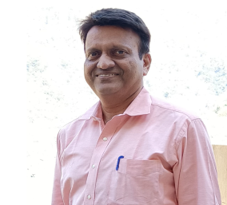
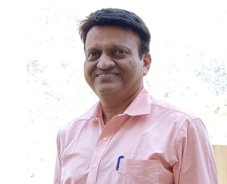
leadership photo change

diff --git a/src/components/layout/Navbar.jsx b/src/components/layout/Navbar.jsx
@@ -1,4 +1,4 @@
-import { useState } from "react";
+import { useState, useEffect } from "react";
 import { ArrowRight, Menu, X } from "lucide-react";
 import { NavLink, Link } from "react-router-dom";
 
@@ -6,6 +6,16 @@ const navLinks = ["HOME", "ABOUT", "SERVICES", "LEADERSHIP", "BLOG", "CONTACT"];
 
 export default function Navbar() {
   const [menuOpen, setMenuOpen] = useState(false);
+
+  // Lock body scroll when menu is open + prevent horizontal scroll bleed
+  useEffect(() => {
+    if (menuOpen) {
+      document.body.style.overflow = "hidden";
+    } else {
+      document.body.style.overflow = "";
+    }
+    return () => { document.body.style.overflow = ""; };
+  }, [menuOpen]);
 
   return (
     <>
@@ -36,7 +46,6 @@ export default function Navbar() {
 
         {/* Right side */}
         <div className="flex items-center gap-3">
-          {/* CTA — hidden on mobile */}
           <Link
             to="/quote"
             className="hidden sm:flex bg-[#1E3A7B] px-5 py-2.5 text-xs font-semibold text-white items-center gap-2 hover:opacity-90 transition-all"
@@ -45,7 +54,6 @@ export default function Navbar() {
             <ArrowRight size={14} />
           </Link>
 
-          {/* Hamburger — mobile only */}
           <button
             onClick={() => setMenuOpen(!menuOpen)}
             className="lg:hidden w-10 h-10 flex items-center justify-center text-[#1E3A7B]"
@@ -56,44 +64,77 @@ export default function Navbar() {
         </div>
       </nav>
 
-      {/* Mobile Drawer */}
+      {/* Mobile Drawer — rendered in a portal-like fixed layer, clipped to viewport */}
+      {/* Using visibility instead of pointer-events to avoid layout side effects */}
       <div
-        className={`lg:hidden fixed inset-0 z-40 transition-all duration-300 ${
-          menuOpen ? "pointer-events-auto" : "pointer-events-none"
-        }`}
+        className="lg:hidden"
+        style={{
+          position: "fixed",
+          inset: 0,
+          zIndex: 40,
+          visibility: menuOpen ? "visible" : "hidden",
+          // Critical: clip everything to viewport so nothing bleeds right
+          overflow: "hidden",
+          width: "100vw",
+          height: "100vh",
+        }}
       >
         {/* Backdrop */}
         <div
           onClick={() => setMenuOpen(false)}
-          className={`absolute inset-0 bg-black/40 transition-opacity duration-300 ${
-            menuOpen ? "opacity-100" : "opacity-0"
-          }`}
+          style={{
+            position: "absolute",
+            inset: 0,
+            background: "rgba(0,0,0,0.4)",
+            opacity: menuOpen ? 1 : 0,
+            transition: "opacity 0.3s ease",
+          }}
         />
 
-        {/* Panel */}
+        {/* Panel — slides in from right, strictly capped at 100vw */}
         <div
-          className={`absolute top-0 right-0 h-full w-72 bg-white shadow-2xl flex flex-col transition-transform duration-300 ease-out ${
-            menuOpen ? "translate-x-0" : "translate-x-full"
-          }`}
+          style={{
+            position: "absolute",
+            top: 0,
+            right: 0,
+            height: "100%",
+            width: "min(288px, 100vw)",   // never wider than screen
+            background: "white",
+            boxShadow: "-4px 0 24px rgba(0,0,0,0.12)",
+            display: "flex",
+            flexDirection: "column",
+            transform: menuOpen ? "translateX(0)" : "translateX(100%)",
+            transition: "transform 0.3s cubic-bezier(0.16,1,0.3,1)",
+            willChange: "transform",      // GPU layer — no layout reflow
+          }}
         >
           {/* Panel header */}
-          <div className="h-[70px] flex items-center justify-between px-6 border-b border-gray-100">
+          <div className="h-[70px] flex items-center justify-between px-6 border-b border-gray-100 flex-shrink-0">
             <p className="text-xs tracking-[3px] text-[#C8960A] font-semibold uppercase">Menu</p>
-            <button onClick={() => setMenuOpen(false)} className="text-[#1E3A7B]">
+            <button
+              onClick={() => setMenuOpen(false)}
+              className="text-[#1E3A7B] w-8 h-8 flex items-center justify-center"
+              aria-label="Close menu"
+            >
               <X size={20} />
             </button>
           </div>
 
           {/* Links */}
-          <div className="flex flex-col py-4">
-            {navLinks.map((label) => (
+          <div className="flex flex-col py-4 overflow-y-auto flex-1">
+            {navLinks.map((label, i) => (
               <NavLink
                 key={label}
                 to={`/${label === "HOME" ? "" : label.toLowerCase()}`}
                 onClick={() => setMenuOpen(false)}
+                style={{
+                  opacity: menuOpen ? 1 : 0,
+                  transform: menuOpen ? "translateX(0)" : "translateX(20px)",
+                  transition: `opacity 0.3s ease ${0.05 + i * 0.05}s, transform 0.3s ease ${0.05 + i * 0.05}s`,
+                }}
                 className={({ isActive }) =>
                   `px-6 py-4 text-sm font-semibold tracking-wide border-b border-gray-50 transition-colors duration-200 ${
-                    isActive ? "text-[#C8960A] bg-amber-50" : "text-[#1E3A7B] hover:text-[#C8960A] hover:bg-gray-50"
+                    isActive ? "text-[#C8960A] bg-amber-50" : "text-[#1E3A7B] active:bg-gray-50"
                   }`
                 }
               >
@@ -103,11 +144,11 @@ export default function Navbar() {
           </div>
 
           {/* Mobile CTA */}
-          <div className="px-6 pt-4 mt-auto pb-10">
+          <div className="px-6 pt-4 pb-10 flex-shrink-0">
             <Link
               to="/quote"
               onClick={() => setMenuOpen(false)}
-              className="w-full bg-[#1E3A7B] px-5 py-3.5 text-xs font-semibold text-white flex items-center justify-center gap-2 hover:opacity-90 transition-all"
+              className="w-full bg-[#1E3A7B] px-5 py-3.5 text-xs font-semibold text-white flex items-center justify-center gap-2 active:opacity-80 transition-all"
             >
               GET A QUOTE
               <ArrowRight size={14} />

diff --git a/src/components/home/SmartTechnology.jsx b/src/components/home/SmartTechnology.jsx
@@ -72,19 +72,20 @@ export default function YourComponentName() {
   return (
     <section className="bg-[#F8F9FB] py-10 lg:py-16 overflow-hidden">
       <div className="max-w-7xl mx-auto px-4 sm:px-6 lg:px-10">
-        <div className="grid lg:grid-cols-2 gap-10 lg:gap-20 items-center">
+        <div className="flex flex-col lg:grid lg:grid-cols-2 gap-8 lg:gap-20 items-center">
 
           {/* LEFT — UI Mockup */}
           <div
             ref={leftRef}
-            className="relative"
+            className="relative w-full min-w-0"
             style={{
               opacity: leftInView ? 1 : 0,
               transform: leftInView ? "translateY(0px)" : "translateY(48px)",
               transition: "opacity 0.7s ease, transform 0.7s ease",
             }}
           >
-            <div className="bg-[#1E3A7B] rounded-2xl p-4 sm:p-6 shadow-xl">
+            {/* Tracker card */}
+            <div className="bg-[#1E3A7B] rounded-2xl p-4 sm:p-6 shadow-xl w-full">
               <p className="text-white font-bold text-sm sm:text-base mb-1">Live Shipment Tracker</p>
               <p className="text-white/50 text-xs mb-5">Shanghai → Los Angeles · Ocean Freight</p>
 
@@ -107,7 +108,8 @@ export default function YourComponentName() {
                 <p className="text-white/60 text-xs">ETA: June 3</p>
               </div>
 
-              <div className="flex items-center gap-0.5 overflow-x-auto pb-1 scrollbar-none">
+              {/* Steps — scrollable on very small screens */}
+              <div className="flex items-center gap-0.5 overflow-x-auto pb-1" style={{ scrollbarWidth: "none" }}>
                 {steps.map((step, i) => (
                   <div key={step} className="flex items-center gap-0.5 flex-shrink-0">
                     <div className={`w-2 h-2 rounded-full flex-shrink-0 ${i <= 2 ? "bg-[#C8960A]" : "bg-white/20"}`} />
@@ -118,16 +120,17 @@ export default function YourComponentName() {
               </div>
             </div>
 
-            <div className="bg-white rounded-2xl shadow-xl p-4 sm:p-5 mt-4 sm:mt-[-20px] sm:ml-8 sm:mr-[-16px] relative z-10">
+            {/* Dashboard card — stacked on mobile, overlapping on sm+ */}
+            <div className="bg-white rounded-2xl shadow-xl p-4 sm:p-5 mt-3 sm:mt-[-20px] sm:ml-8 sm:mr-[-16px] relative z-10 w-full min-w-0">
               <p className="text-[#081229] font-bold text-sm mb-4">Your Dashboard</p>
               <div className="grid grid-cols-2 gap-3">
                 {dashboardStats.map(({ icon: Icon, value, label }) => (
-                  <div key={label} className="bg-[#F8F9FB] rounded-xl p-3 sm:p-3.5 flex flex-col gap-2">
-                    <div className="w-7 h-7 bg-[#E8EEF8] rounded-lg flex items-center justify-center">
+                  <div key={label} className="bg-[#F8F9FB] rounded-xl p-3 flex flex-col gap-2 min-w-0">
+                    <div className="w-7 h-7 bg-[#E8EEF8] rounded-lg flex items-center justify-center flex-shrink-0">
                       <Icon size={14} className="text-[#1E3A7B]" />
                     </div>
-                    <p className="text-[#081229] text-lg sm:text-xl font-extrabold leading-none">{value}</p>
-                    <p className="text-gray-400 text-xs">{label}</p>
+                    <p className="text-[#081229] text-lg font-extrabold leading-none truncate">{value}</p>
+                    <p className="text-gray-400 text-xs leading-tight">{label}</p>
                   </div>
                 ))}
               </div>
@@ -137,6 +140,7 @@ export default function YourComponentName() {
           {/* RIGHT — Text Content */}
           <div
             ref={rightRef}
+            className="w-full min-w-0"
             style={{
               opacity: rightInView ? 1 : 0,
               transform: rightInView ? "translateY(0px)" : "translateY(48px)",
@@ -158,7 +162,7 @@ export default function YourComponentName() {
               understand — clear, actionable, always live.
             </p>
 
-            <div className="space-y-5 sm:space-y-6">
+            <div className="space-y-5">
               {features.map(({ icon: Icon, title, description }, i) => (
                 <div
                   key={title}
@@ -169,10 +173,10 @@ export default function YourComponentName() {
                     transition: `opacity 0.5s ease ${0.3 + i * 0.1}s, transform 0.5s ease ${0.3 + i * 0.1}s`,
                   }}
                 >
-                  <div className="w-9 h-9 sm:w-10 sm:h-10 bg-[#C8960A] rounded-xl flex items-center justify-center flex-shrink-0 mt-0.5">
+                  <div className="w-9 h-9 bg-[#C8960A] rounded-xl flex items-center justify-center flex-shrink-0 mt-0.5">
                     <Icon size={16} className="text-white" strokeWidth={1.8} />
                   </div>
-                  <div>
+                  <div className="min-w-0">
                     <p className="text-[#081229] font-bold text-sm mb-1">{title}</p>
                     <p className="text-gray-500 text-xs leading-relaxed">{description}</p>
                   </div>